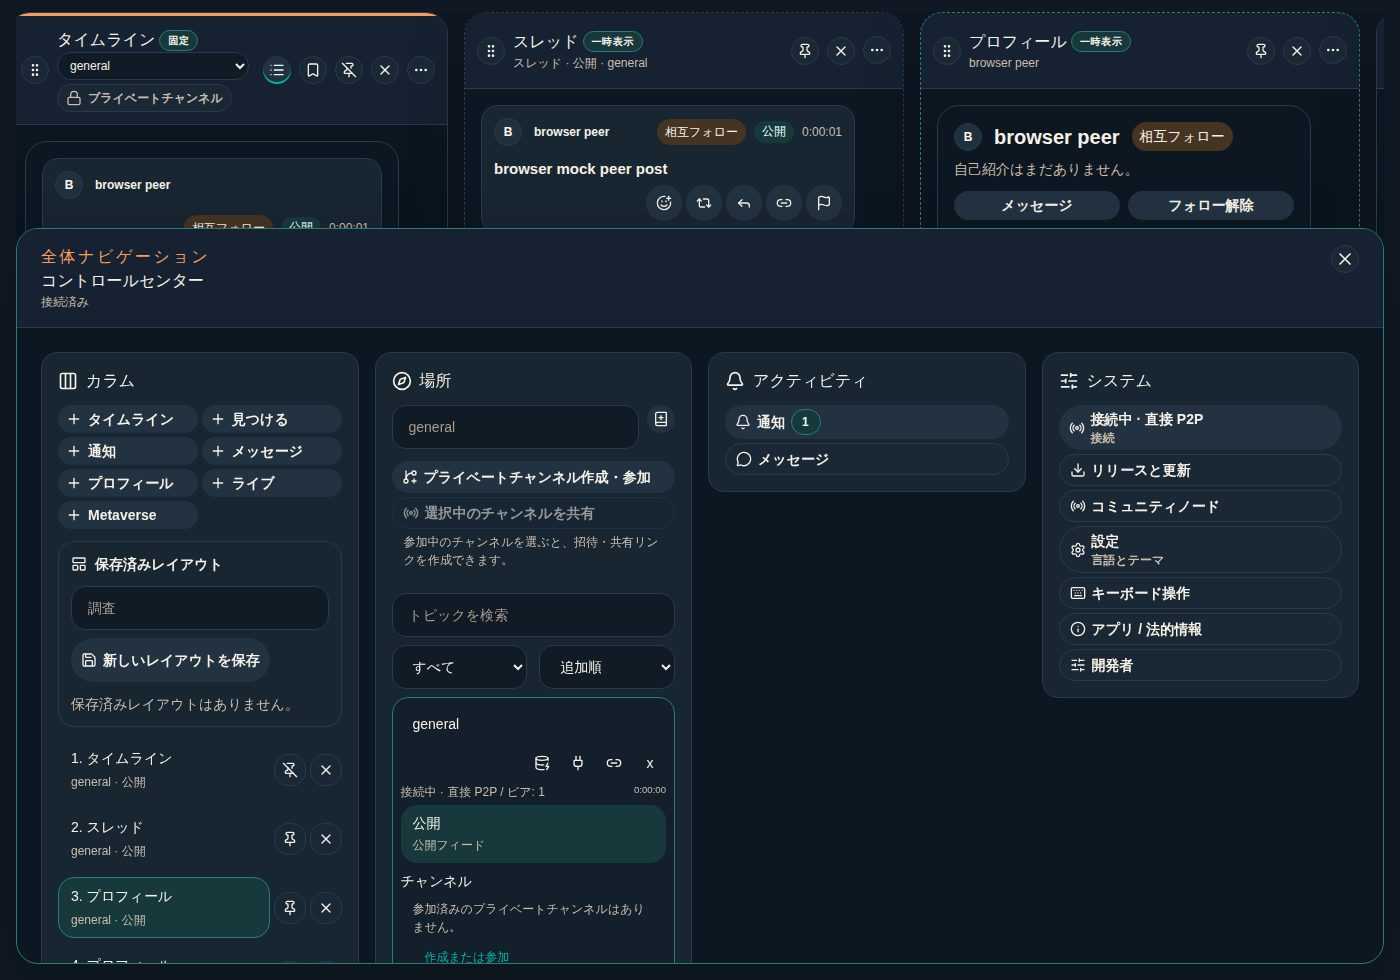
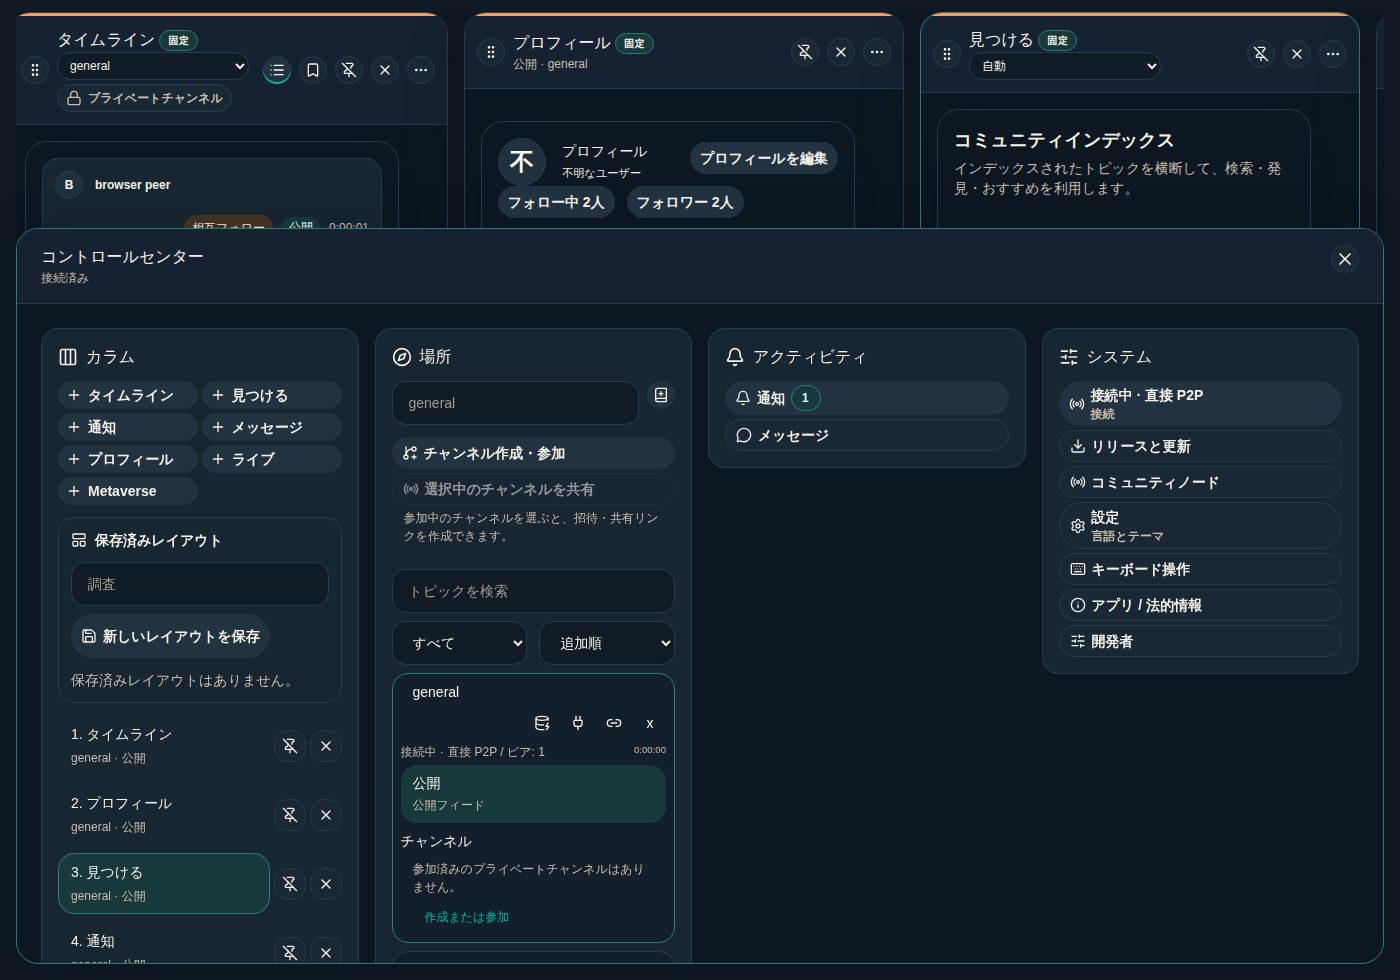
docs(ui-reviews): Control Center変更後の画像と見出し削除の記載を更新
Claude-Session: https://claude.ai/code/session_01QAgaTfvpXsE2ZkYv4T9QBd

diff --git a/docs/ui-reviews/2026-09-11-button-density.md b/docs/ui-reviews/2026-09-11-button-density.md
@@ -6,7 +6,7 @@
 - PR: [#983](https://github.com/KingYoSun/kukuri/pull/983)
 - Preview: [スレッド+プロフィール 変更前](assets/2026-09-11-button-density/before-thread-profile.jpg)、[同 変更後](assets/2026-09-11-button-density/after-thread-profile.jpg)、[コントロールセンター 変更前](assets/2026-09-11-button-density/before-control-center.jpg)、[同 変更後](assets/2026-09-11-button-density/after-control-center.jpg)
 - Surface / user / purpose: 全surface共通のtextボタン、icon-only control、投稿カード、profile overview、Control Center。閲覧者・投稿者が1画面で読める情報量を増やし、ボタン内の不自然な改行をなくす。
-- Summary: textボタンを全丸のまま高さ2rem（`sm`は1.75rem）、横padding 0.625rem（`sm`は0.5rem）へ縮小。icon-only controlは2rem前後、投稿カードのavatarは1.75rem、profile overviewのavatarは3remへ縮小し、avatarは大きさに関わらず常に`--radius-pill`（全丸）に固定。投稿カードの余白と投稿meta／actionsの間隔を1段詰める。文字サイズは変更しない。Control Centerの「場所」topic行はtopic名だけで1行を確保し、操作列を次の行へ置く。文言「プライベートチャンネルを作成または参加」を「チャンネル作成・参加」へ変更。
+- Summary: textボタンを全丸のまま高さ2rem（`sm`は1.75rem）、横padding 0.625rem（`sm`は0.5rem）へ縮小。icon-only controlは2rem前後、投稿カードのavatarは1.75rem、profile overviewのavatarは3remへ縮小し、avatarは大きさに関わらず常に`--radius-pill`（全丸）に固定。投稿カードの余白と投稿meta／actionsの間隔を1段詰める。文字サイズは変更しない。Control Centerの「場所」topic行はtopic名だけで1行を確保し、操作列を次の行へ置く。文言「プライベートチャンネルを作成または参加」を「チャンネル作成・参加」へ変更。Control Center見出しの「全体ナビゲーション」（eyebrow）は意味を持たないため削除。
 - 候補比較: A（全丸・高さ2.25rem）、B（角丸12px・Aと同密度）、C（角丸8px・高密度）、D（全丸・Cと同密度）を同条件で撮影し、Dを採用。avatarは全案共通で全丸とする方針を先に決定した。
 - Conditions:
   - Platform: Linux / Chromium（Playwright、browser mock `VITE_KUKURI_DESKTOP_MOCK=1`）
